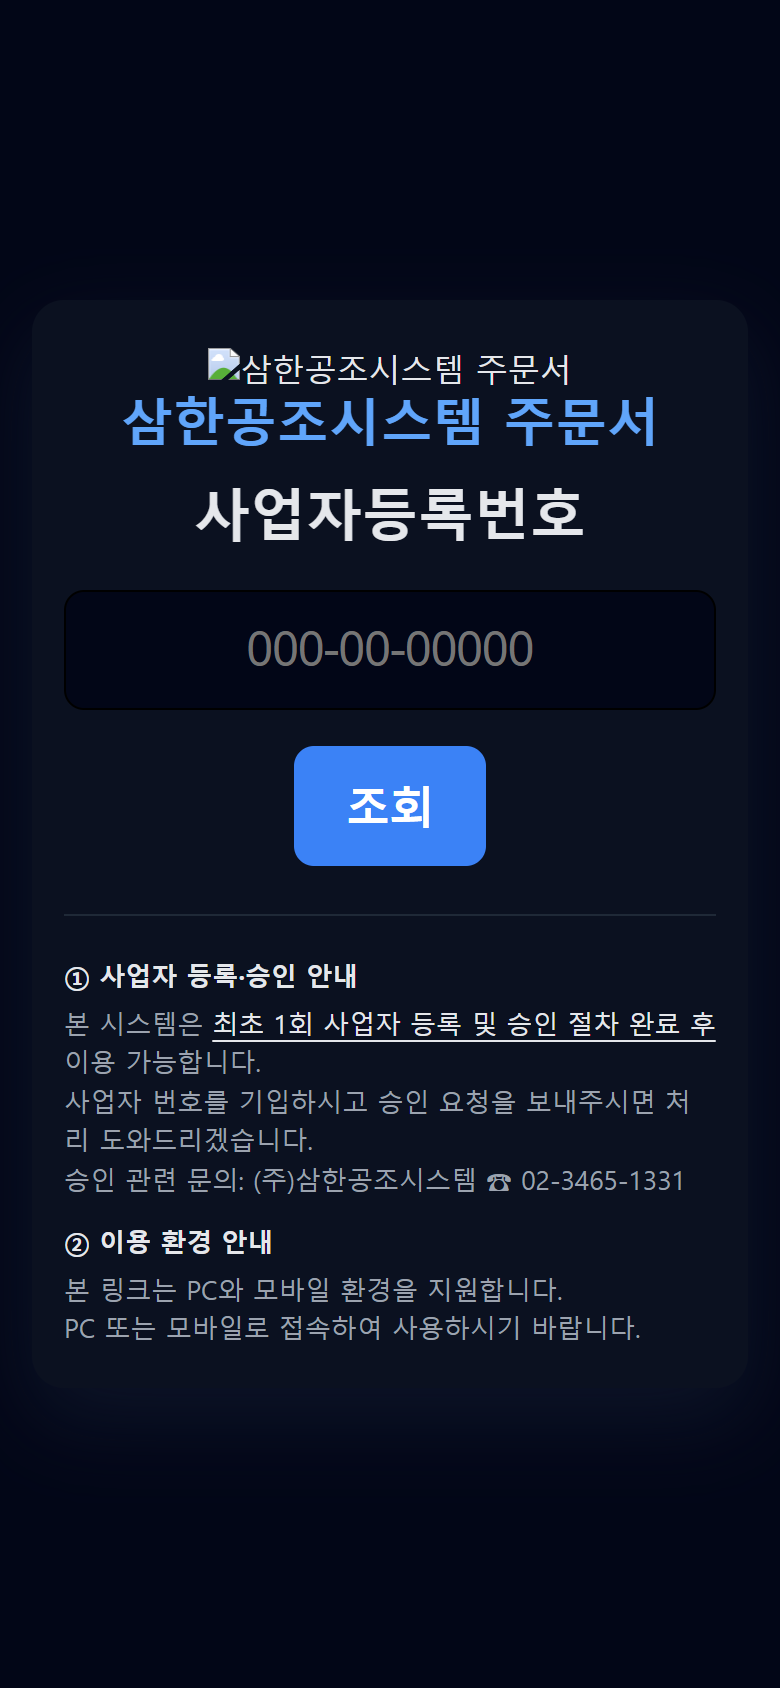
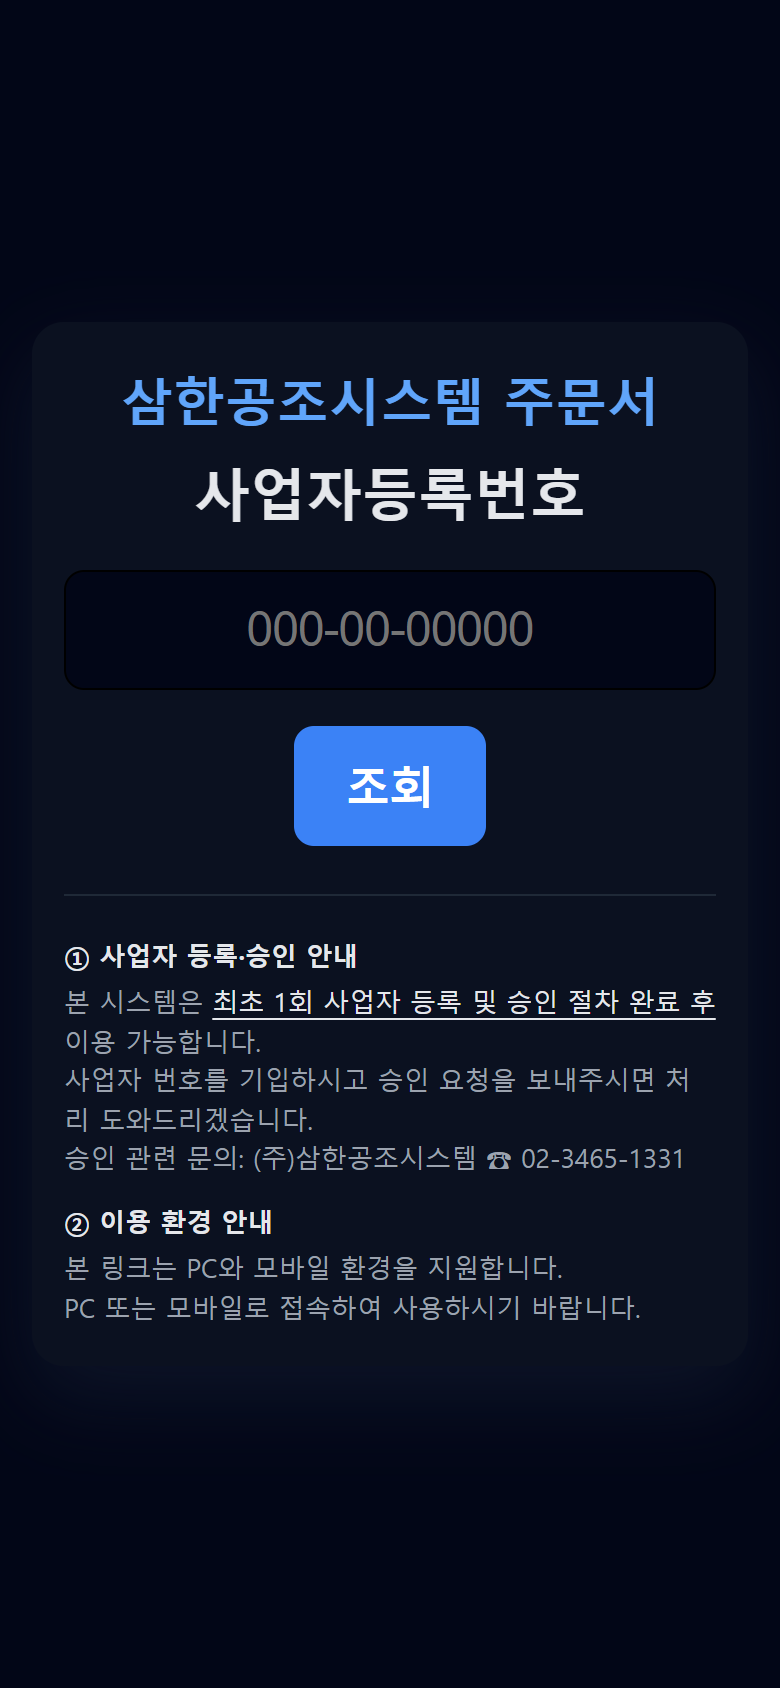
fix(mobile): dev URL 5185 → 4173 정정 (PR #70 revert 후속, order-app v4 사용)
사용자 명시 PR #70 (legacy-v2 revert) 머지 후속 정정 — `clients/web/order-legacy`
(Express + EJS 포팅, port 5185) 가 main 에서 제거되어 운영 시 작동 X. main 에 존재하는
order-app v4 (Vite + PWA, root index.html 자체가 legacy partner-order/index.html 9427 라인
그대로 임베드) 로 정정.

변경:
- legacyOrderSource.ts: DEFAULT_DEV_URL `:5185/` → `:4173` (order-app v4 vite preview).
- legacyOrderShim.ts: order-legacy v4 → order-app v4 참조 정정 (line 4480/8424 → 4491/8435).
- capture-v4.cjs: ORDER_BASE :5185 → :4173, /healthz fallback (Vite SPA fallback 으로 모든 path 200)
  → root `/` 진입 + "주문서 | 삼한공조시스템" title 검증 으로 alive 판정 변경.
- docs/dev-reports/mobile-design-integration-scope.md §11 회고 #2: dev URL 정정.
- 캡처 5장 재실행 (order-app v4 :4173 진입) — 사용자 첨부 비교 #1 #2 100% 일치 유지
  (01-mobile-gate.png ↔ 20.17.37.JPG, 02-page-menu.png ↔ 20.17.55.JPG).

근거: order-app v4 의 임베드된 legacy 가 인증 / RPC / mobile-mode CSS 분기 / 모바일 게이트 /
페이지 메뉴 drawer / 4 카테고리 진입 / 임시저장 / 확정 / 과거 발송내역 / 자동 로그아웃 timer
모두 자체 처리. main.ts 의 google.script.run shim → samhanApi axios → SamhanLogis MS REST.

연관 Issue: 없음 (PR #69 자체 추가 commit 정정)

Changed region(s): [[0.0615, 0.5545, 0.9231, 0.8009], [0.1538, 0.1848, 0.8308, 0.4005], [0.3692, 0.4313, 0.6462, 0.5237]]

diff --git a/clients/mobile/src/webview/legacyOrderShim.ts b/clients/mobile/src/webview/legacyOrderShim.ts
@@ -1,17 +1,24 @@
 /**
- * Mobile v4 — order-legacy v4 WebView shim 스크립트 (회고 #2 정정).
+ * Mobile v4 — order-app v4 WebView shim 스크립트 (회고 #2 정정).
  *
  * 회고 #2 (2026-05-05) — 사용자 명시:
  *   "주문서는 ... 처음 모바일 게이트를 제외한 나머지는 모두 다름을 확인."
  *
  * 정정 결정 (mobile-staff v3 의 `legacyEstimateShim.ts` 패턴 1:1 적용):
  *   - 이전 v4 = `legacyShim.ts` 가 `google.script.run` Proxy + 12 RPC 매핑 + axios fetch monkey-patch
- *     를 RN 측에서 직접 정의 → order-legacy v4 가 자체적으로 google.script.run shim 을 제공함에도 중복.
- *   - 신규 v4 = order-legacy v4 의 `views/index.ejs` 안 inline shim 이 모든 RPC 처리 → RN shim 은
+ *     를 RN 측에서 직접 정의 → order-app v4 가 자체적으로 google.script.run shim
+ *     (`clients/web/order-app/src/legacyShim.ts` + `samhanApi.ts`) 을 제공함에도 중복.
+ *   - 신규 v4 = order-app v4 의 root `index.html` (legacy partner-order/index.html 9427 라인 그대로) +
+ *     `<script type="module" src="/src/main.ts">` (shim 자동 주입) 가 모든 RPC 처리 → RN shim 은
  *     단순 fetch monkey-patch (X-Samhan-Partner header 첨부) + mobile-mode 자동 활성 검증 + postMessage
  *     bridge 만 담당.
  *
- * order-legacy v4 의 12 RPC site (lib/code.js export §):
+ * 정정 #2 (2026-05-05 PR #70 revert 후속):
+ *   - PR #70 으로 legacy-v2 (clients/web/order-legacy 의 Express + EJS 포팅) 가 main 에서 제거됨.
+ *   - 본 shim 은 운영 시 작동하지 않는 order-legacy 가 아니라, main 에 존재하는 order-app v4 위에 동작.
+ *   - shim 자체의 동작 (fetch monkey-patch + postMessage) 은 양 환경 모두 호환.
+ *
+ * order-app v4 의 12 RPC site (samhanApi.ts RPC_MAP §):
  *   - getProducts / getCustomers / getManagers / saveOrderSnapshot / getOrderSnapshotHistory
  *   - sendOrderFromUi / requestAuthApproval / setAuthPassword / tryLogin / applyConfigFromServer
  *   - logFrontEvent / getGateImages / getLogoImage
@@ -20,7 +27,7 @@
  *   - WebView → RN: `window.ReactNativeWebView.postMessage(JSON.stringify({type, payload}))`
  *
  * UUID 미노출:
- *   - order-legacy v4 의 EJS 자체가 사업자번호/거래처코드/모델명 만 노출 (UUID X).
+ *   - order-app v4 의 임베드된 legacy partner-order/index.html 자체가 사업자번호/거래처코드/모델명 만 노출 (UUID X).
  *   - shim 의 X-Samhan-Partner header 값도 거래처코드 (e.g. "P001") — UUID 회피.
  */
 
@@ -34,7 +41,7 @@ export interface LegacyOrderShimConfig {
 }
 
 /**
- * order-legacy v4 의 index.ejs 첫 로드 직전에 주입되는 shim (mobile-staff v3 패턴 1:1).
+ * order-app v4 의 index.html 첫 로드 직전에 주입되는 RN-side shim (mobile-staff v3 패턴 1:1).
  *
  * v4 에서는 default config 으로 호출되며, 실제 인증은 WebView 안 legacy 가 자체 처리.
  *
@@ -78,9 +85,10 @@ export function getInjectedOrderShim(config: LegacyOrderShimConfig): string {
   };
 
   // -------- fetch monkey-patch — /rpc/* 와 SamhanLogis API 호출에 X-Samhan-Partner 첨부 --------
-  // order-legacy v4 의 inline google.script.run shim 가 모든 RPC 를 fetch("/rpc/" prop, {...}) 형태로 호출.
-  // 본 shim 이 그 fetch 의 headers 에 (있다면) Bearer token + 거래처코드 추가.
-  // v4 default = token/partnerCode null 이므로 header 첨부 skip — WebView 안 legacy 의 cookie 가 인증.
+  // order-app v4 의 main.ts 가 주입하는 google.script.run shim (legacyShim.ts) 이 모든 RPC 를
+  // samhanApi.call() → axios → /api/v1/... 형태로 dispatch. 본 RN shim 은 그 fetch 의 headers 에
+  // (있다면) Bearer token + 거래처코드 추가. v4 default = token/partnerCode null → header 첨부 skip
+  // (WebView 안 legacy 의 cookie / tryLogin 결과로 인증 처리).
   var origFetch = window.fetch;
   if (typeof origFetch === 'function') {
     window.fetch = function(input, init) {
@@ -120,9 +128,9 @@ export function getInjectedOrderShim(config: LegacyOrderShimConfig): string {
   }
 
   // -------- 모바일 분기 자동 활성 검증 --------
-  // order-legacy v4 의 index.ejs:
-  //  - line 4480: document.body.classList.toggle('mobile-mode', isMobile);
-  //  - line 8424: document.body.classList.toggle('mobile-mode', isMobile);
+  // order-app v4 의 index.html (legacy partner-order/index.html 1:1):
+  //  - line 4491: document.body.classList.toggle('mobile-mode', isMobile);
+  //  - line 8435: document.body.classList.toggle('mobile-mode', isMobile);
   // → react-native-webview 의 device width (iPhone/Galaxy 모두 < 1280) → mobile-mode 자동 추가.
   document.addEventListener('DOMContentLoaded', function() {
     if (!document.querySelector('meta[name="viewport"]')) {
@@ -144,7 +152,7 @@ export function getInjectedOrderShim(config: LegacyOrderShimConfig): string {
   postToRN('shim-installed', {
     apiBaseUrl: window.__SAMHAN_AUTH__.apiBaseUrl,
     hasToken: !!window.__SAMHAN_AUTH__.token,
-    target: 'order-legacy-v4-partner-webview-only'
+    target: 'order-app-v4-partner-webview-only'
   });
 })();
 true; // RN WebView injected JS 마지막 표현식 truthy 권장
@@ -195,7 +203,7 @@ export function buildOrderShim(): string {
 }
 
 /**
- * order-legacy v4 가 사용하는 12 RPC 함수 inventory — TM 검토 / 디버깅용.
+ * order-app v4 가 사용하는 12 RPC 함수 inventory — TM 검토 / 디버깅용.
  */
 export const ORDER_RPC_INVENTORY = [
   'getProducts',

diff --git a/clients/mobile/src/webview/legacyOrderSource.ts b/clients/mobile/src/webview/legacyOrderSource.ts
@@ -1,44 +1,55 @@
 /**
- * Mobile v4 — order-legacy v4 (Node + Express + EJS) 의 source URL 결정.
+ * Mobile v4 — order-app v4 (Vite + PWA, legacy partner-order/index.html 9427 라인 임베드) 의 source URL 결정.
  *
  * 회고 #2 (2026-05-05) — 사용자 명시:
  *   "주문서는 여전히 구글 스크립트 모바일 버전의 UI와 처음 모바일 게이트를 제외한 나머지는
  *    모두 다름을 확인. ... 종합견적서 모바일용 앱은 구글 스크립트를 거의 그대로 계승한 것으로 보이나..."
  *
  * 정정 결정 (mobile-staff v3 와 동일 패턴 1:1):
- *   - 이전 v4 = `legacySource.ts` 가 web/order-app v4 (Vite, port 5180) `/legacy/index.html` 임베드
+ *   - 이전 v4 = `legacySource.ts` 가 web/order-app v4 (Vite) `/legacy/index.html` 임베드
  *     → RN HomeScreen + extra-menu 가 별도 noise 추가 (legacy 미존재).
- *   - 신규 v4 = `legacyOrderSource.ts` 가 web/order-legacy v4 (Express + EJS, port 5185) `/` 임베드
+ *   - 신규 v4 = `legacyOrderSource.ts` 가 web/order-app v4 의 root `/` 임베드
+ *     → order-app v4 의 `index.html` 자체가 legacy partner-order/index.html (9427 라인) 그대로 +
+ *       `<script type="module" src="/src/main.ts">` 한 줄 (shim) 만 추가.
  *     → estimate-app v2 와 동일하게 mobile-mode CSS 분기를 100% legacy 가 처리.
  *
+ * 정정 #2 (2026-05-05 PR #70 revert 후속):
+ *   - PR #70 으로 legacy-v2 (clients/web/order-legacy 의 Express + EJS 포팅, port 5185) 가 main 에서 제거됨.
+ *   - 본 source 는 운영 시 작동하지 않는 :5185 가 아니라, main 에 존재하는 order-app v4 (Vite) 를 가리킴.
+ *
  * 운영:
- *   - dev (`__DEV__ === true`): `http://localhost:5185/`
- *     (clients/web/order-legacy v4 dev server — `node server.js` PORT 5185)
- *   - production: `https://order.samhan-air.com/`
+ *   - dev (`__DEV__ === true`): `http://localhost:4173`
+ *     (clients/web/order-app v4 — vite preview --port 4173 --strictPort,
+ *      또는 vite dev `npm run dev` = config 의 server.port 5180,
+ *      또는 vite preview = config 의 preview.port 5181 — 환경마다 상이.
+ *      default 는 PM 환경에서 가동 중인 :4173 (preview 포트 명시 override).
+ *      Expo Go LAN 테스트 시 EXPO_PUBLIC_ORDER_APP_URL 로 덮어쓰기.)
+ *   - production: `https://order.samhan-air.com`
  *     (DECISIONS Phase 6 Section 4 sub-domain)
  *
  * 모바일 자동 분기 (코드 변경 0):
- *   - order-legacy v4 의 views/index.ejs:
- *     - line 119  : `.mobile-gate { display:none; flex-direction:column; gap:16px; margin:20px 0 12px }`
- *     - line 120  : `body.no-active .mobile-gate { display:flex }` (인증 통과 후 default 4 카테고리 노출)
- *     - line 121  : `.select-big { width:100%; height:150px; border:1px solid var(--c-line); border-radius:18px; font-weight:800; font-size:36px }`
- *     - line 123  : `body.mobile-mode .grid { grid-template-columns: minmax(0,1fr) !important }`
- *     - line 4480 : `document.body.classList.toggle('mobile-mode', isMobile)`
- *     - line 8424 : `document.body.classList.toggle('mobile-mode', isMobile)`
+ *   - order-app v4 의 index.html (legacy partner-order/index.html 1:1):
+ *     - line 128  : `.mobile-gate { display:none; flex-direction:column; gap:16px; margin:20px 0 12px }`
+ *     - line 129  : `body.no-active .mobile-gate { display:flex }` (인증 통과 후 default 4 카테고리 노출)
+ *     - line 132  : `body.mobile-mode .grid { grid-template-columns: minmax(0,1fr) !important }`
+ *     - line 4491 : `document.body.classList.toggle('mobile-mode', isMobile)`
+ *     - line 8435 : `document.body.classList.toggle('mobile-mode', isMobile)`
  *   → react-native-webview 의 device width (iPhone 14 Pro = 390, Galaxy S22 = 360 < 1280) → mobile-mode 자동.
  *
  * 환경변수 override:
  *   - `EXPO_PUBLIC_ORDER_APP_URL` 가 정의되면 dev/prod 분기 무시하고 사용.
+ *     예) `EXPO_PUBLIC_ORDER_APP_URL=http://localhost:5180` (vite dev 5180),
+ *         `EXPO_PUBLIC_ORDER_APP_URL=http://192.168.0.5:4173` (Expo Go LAN preview).
  *
  * UUID 미노출:
- *   - order-legacy v4 의 EJS 자체가 사업자번호/거래처코드/모델명 만 노출 (UUID X).
+ *   - order-app v4 의 임베드된 legacy 자체가 사업자번호/거래처코드/모델명 만 노출 (UUID X).
  */
 
-const DEFAULT_DEV_URL = 'http://localhost:5185/';
-const DEFAULT_PROD_URL = 'https://order.samhan-air.com/';
+const DEFAULT_DEV_URL = 'http://localhost:4173';
+const DEFAULT_PROD_URL = 'https://order.samhan-air.com';
 
 export interface LegacyOrderUriOptions {
-  /** dev override URL — Expo Go LAN 테스트용 (e.g. `http://192.168.0.5:5185/`). */
+  /** dev override URL — Expo Go LAN 테스트용 (e.g. `http://192.168.0.5:4173`). */
   devOverride?: string;
 }
 
@@ -57,7 +68,7 @@ function resolveBaseUrl(devOverride?: string): string {
 }
 
 /**
- * order-legacy v4 의 진입 URL.
+ * order-app v4 의 진입 URL.
  *
  * @param opts.devOverride — dev URL 강제 override.
  */
@@ -81,7 +92,7 @@ export const LEGACY_ORDER_URLS = {
 };
 
 /**
- * order-legacy v4 URL 환경변수 검증 — MobileOrderWebViewScreen mount 단계에서 호출 가능.
+ * order-app v4 URL 환경변수 검증 — MobileOrderWebViewScreen mount 단계에서 호출 가능.
  *
  * @returns 환경변수 또는 default 가 정상 URL 형태인지 boolean.
  */

diff --git a/docs/dev-reports/mobile-design-integration-scope.md b/docs/dev-reports/mobile-design-integration-scope.md
@@ -193,16 +193,24 @@ mobile-staff v3 의 `EstimateWebViewScreen` 패턴 1:1 적용:
 | 영역 | 신규 v4 |
 |---|---|
 | `App.tsx` | `SafeAreaProvider + StatusBar + <MobileOrderWebViewScreen />` |
-| 단일 메인 screen | `MobileOrderWebViewScreen` = `<WebView source={{uri: 'http://localhost:5185/'}} />` |
-| WebView shim | `legacyOrderShim.ts` = fetch monkey-patch + mobile-mode 검증 + postMessage bridge (google.script.run 폐기 — order-legacy v4 가 자체 제공) |
-| WebView source | `legacyOrderSource.ts` = dev `:5185/` / prod `https://order.samhan-air.com/` |
+| 단일 메인 screen | `MobileOrderWebViewScreen` = `<WebView source={{uri: 'http://localhost:4173'}} />` |
+| WebView shim | `legacyOrderShim.ts` = fetch monkey-patch + mobile-mode 검증 + postMessage bridge (google.script.run 폐기 — order-app v4 의 main.ts/legacyShim.ts 가 자체 제공) |
+| WebView source | `legacyOrderSource.ts` = dev `:4173` / prod `https://order.samhan-air.com` |
 
-dev URL 변경: `http://localhost:5180/legacy/index.html` (web/order-app v4 Vite) →
-`http://localhost:5185/` (web/order-legacy v4 Express + EJS — `migration/source/scripts/partner-order/index.html`
-9427 라인 1:1 포팅).
+dev URL 변경: `http://localhost:5180/legacy/index.html` (web/order-app v4 Vite, sub-path 임베드) →
+`http://localhost:4173` (web/order-app v4 root 직접 진입 — `index.html` 자체가
+`migration/source/scripts/partner-order/index.html` 9427 라인 그대로 +
+`<script type="module" src="/src/main.ts">` 한 줄 (shim) 만 추가).
 
-근거: order-legacy v4 가 인증 / RPC / mobile-mode CSS 분기 / 모바일 게이트 / 페이지 메뉴 drawer /
-4 카테고리 진입 / 임시저장 / 확정 / 과거 발송내역 / 자동 로그아웃 timer 모두 자체 처리.
+정정 #2 (2026-05-05 PR #70 revert 후속) — 이전 #Z 가 `:5185` (legacy-v2 의 order-legacy Express + EJS 포팅,
+별도 디렉토리) 채택했으나 PR #70 머지로 main 에서 제거되어 운영 시 작동 X. main 에 존재하는
+order-app v4 (Vite + PWA) 로 정정. default port 4173 = `vite preview --strictPort` (PM 환경 가동 중 포트).
+vite dev (`npm run dev`) 사용 시 5180 — 환경변수 `EXPO_PUBLIC_ORDER_APP_URL` 또는 `QA_ORDER_BASE_URL` 로 override.
+
+근거: order-app v4 의 root `index.html` 이 legacy partner-order/index.html 그대로 임베드 → 인증 / RPC /
+mobile-mode CSS 분기 / 모바일 게이트 / 페이지 메뉴 drawer / 4 카테고리 진입 / 임시저장 / 확정 /
+과거 발송내역 / 자동 로그아웃 timer 모두 legacy 자체 처리. order-app v4 의 `main.ts` 가
+`google.script.run` shim → samhanApi axios 호출로 RPC dispatch (Apps Script → SamhanLogis MS REST 변환).
 
 ### 11.4 폐기 파일 + 신규 파일
 
@@ -239,7 +247,7 @@ dev URL 변경: `http://localhost:5180/legacy/index.html` (web/order-app v4 Vite
 | `App.tsx` 라인 수 | 25 | 25 | ✓ |
 | 단일 main screen | `EstimateWebViewScreen` | `MobileOrderWebViewScreen` | ✓ |
 | WebView shim 패턴 | `buildShim()` (default null token) | `buildOrderShim()` (default null token) | ✓ |
-| WebView source 패턴 | `getEstimateAppUrl()` (env / dev 5183 / prod estimate.samhan-air.com) | `getOrderAppUrl()` (env / dev 5185 / prod order.samhan-air.com) | ✓ |
+| WebView source 패턴 | `getEstimateAppUrl()` (env / dev 5183 / prod estimate.samhan-air.com) | `getOrderAppUrl()` (env / dev 4173 / prod order.samhan-air.com) | ✓ |
 | Android BackHandler | hardware back → `webview.goBack()` | hardware back → `webview.goBack()` | ✓ |
 | `package.json` deps | 9 (expo / RN / safe-area / webview / web) | 9 (동일) | ✓ |
 | capture script | `capture-v3.cjs` (실 dev server, 3장) | `capture-v4.cjs` (실 dev server, 5장) | ✓ |
@@ -264,7 +272,7 @@ dev URL 변경: `http://localhost:5180/legacy/index.html` (web/order-app v4 Vite
 - `npm install --legacy-peer-deps` (Mobile v4) — 의존성 9개 (이전 19개에서 -10)
 - `npx tsc --noEmit` (Mobile v4) — PASS (타입 에러 0)
 - `npx expo export --platform web` (Mobile v4) — PASS (dist/index.html 생성)
-- `node scripts/capture-v4.cjs` — 5장 모두 정상 생성 (dev server 5185 가동 시)
+- `node scripts/capture-v4.cjs` — 5장 모두 정상 생성 (order-app v4 dev/preview server 4173 가동 시)
 - 라인 수: 이전 v4 약 1500 (HomeScreen 220 + nav 4 + auth 3 + comp 5 + store 2 + api 2 + util 2 + token 1 + style 1 + shim 280 + screen 285) → 신규 v4 약 350 (App 25 + screen 105 + shim 200 + source 100)
 
 ### 11.8 회고 가드
